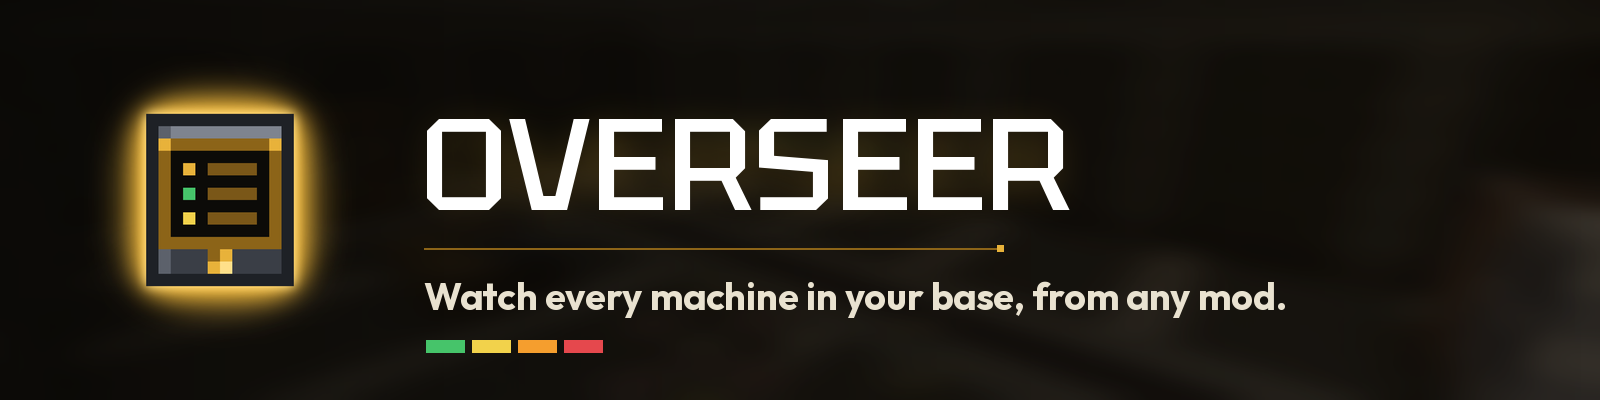
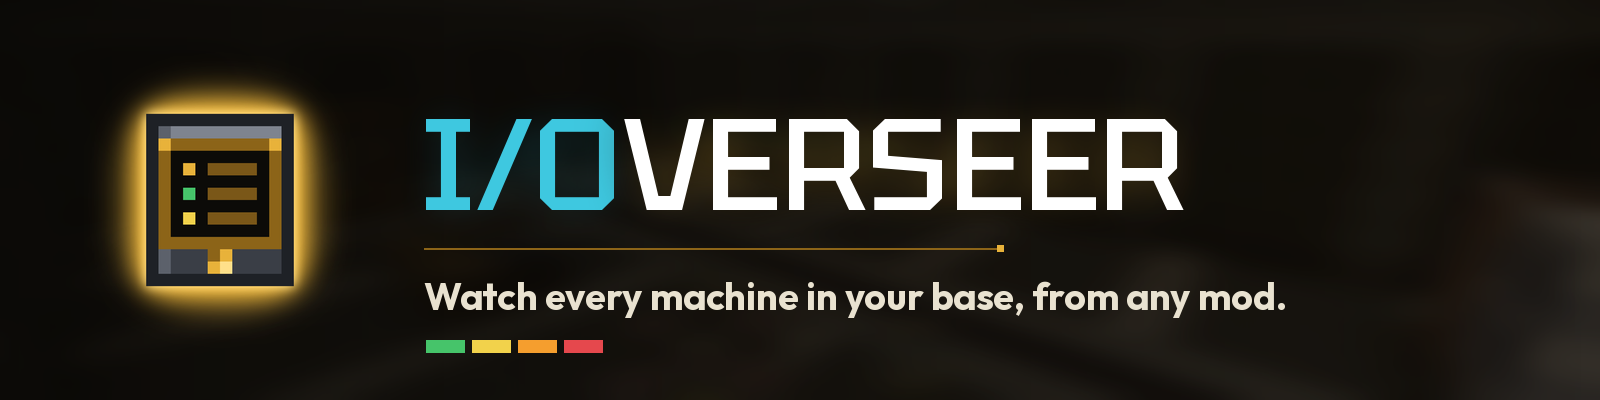
Rename to I/Overseer, I/O in cyan

Changed region(s): [[0.25, 0.3, 0.75, 0.54]]

diff --git a/tools/listing.py b/tools/listing.py
@@ -1,4 +1,4 @@
-"""Overseer CurseForge / README art: icon, banner and captioned gallery images.
+"""I/Overseer CurseForge / README art: icon, banner and captioned gallery images.
 python3 tools/listing.py <shots_dir> <out_dir>"""
 import os
 import sys
@@ -13,6 +13,7 @@ SMALL = lambda s: ImageFont.truetype(FD + 'Outfit-Regular.ttf', s)
 W, H = 1280, 720
 GOLD, GOLD_HI, GOLD_DIM = (232, 178, 58), (255, 216, 119), (140, 100, 24)
 STEEL, STEEL_DARK = (43, 46, 52), (27, 29, 33)
+IO = (62, 200, 224)
 STATUS = [(70, 196, 106), (242, 210, 75), (245, 158, 46), (229, 72, 77)]
 TABLET = os.path.join(os.path.dirname(__file__), '..', 'src/main/resources/assets/overseer/textures/item/monitor_tablet.png')
 
@@ -71,8 +72,19 @@ def trace(canvas, x0, x1, y):
     d.rectangle([x1 - 3, y - 3, x1 + 3, y + 3], fill=GOLD + (255,))
 
 
+def brand_text(canvas, xy, font, radius=16, strength=190):
+    """I/OVERSEER with the I/O in input/output cyan."""
+    x, y = xy
+    glow_text(canvas, (x, y), 'I/O', font, fill=IO, glow=IO, radius=radius, strength=strength)
+    w = ImageDraw.Draw(canvas).textlength('I/O', font=font)
+    glow_text(canvas, (x + w, y), 'VERSEER', font, glow=GOLD, radius=radius, strength=strength)
+
+
 def text_block(canvas, x, y, title, lines, tsize=64):
-    glow_text(canvas, (x, y), title, TITLE(tsize), glow=GOLD, radius=14, strength=160)
+    if title == 'I/OVERSEER':
+        brand_text(canvas, (x, y), TITLE(tsize), radius=14, strength=160)
+    else:
+        glow_text(canvas, (x, y), title, TITLE(tsize), glow=GOLD, radius=14, strength=160)
     y += tsize + 26
     trace(canvas, x, x + 300, y)
     y += 24
@@ -127,7 +139,7 @@ def banner(ic):
     c = bg(shot('m9.png').resize((BW, BH * 2)).crop((0, BH // 2, BW, BH + BH // 2)))
     c = c.resize((BW, BH))
     c.alpha_composite(ic.resize((300, 300), Image.LANCZOS), (70, 50))
-    glow_text(c, (420, 80), 'OVERSEER', TITLE(130), glow=GOLD, radius=22, strength=200)
+    brand_text(c, (420, 80), TITLE(130), radius=22, strength=200)
     trace(c, 424, 1000, 248)
     ImageDraw.Draw(c).text((424, 272), 'Watch every machine in your base, from any mod.', font=BODY(38), fill=(233, 226, 208, 255))
     chips(c, 426, 340)
@@ -137,18 +149,18 @@ def banner(ic):
 # ---------- gallery ----------
 def gallery():
     pages = [
-        ('01-overseer.png', 'hero.png', 'OVERSEER', ['Every machine in your base,', 'from any mod, at a glance.'], (0, 60, 1280, 720), 700),
+        ('01-overseer.png', 'hero.png', 'I/OVERSEER', ['Every machine in your base,', 'from any mod, at a glance.'], (0, 60, 1280, 720), 660),
         ('02-details.png', 'e1.png', 'Details', ['Working, idle, full or no power.', 'Energy, fluids, slots, position.', 'Pin machines to watch anywhere.'], (128, 38, 1152, 682), 640),
         ('03-find-it.png', 'e3.png', 'Find it', ['Ctrl-click a machine: gold outline', 'through walls, a beam and a HUD', 'arrow with the distance.'], (240, 0, 1120, 600), 680),
         ('04-live-preview.png', 'h2.png', 'Live preview', ['Hold the tablet to see the power', 'draw of nearby machines, stored', 'energy and the status mix.'], (760, 260, 1280, 720), 480),
         ('05-alerts.png', 'alert.png', 'Alerts', ['A toast when a pinned machine', 'runs out of power or fills up.'], (560, 0, 1280, 420), 680),
-        ('06-screen.png', 'scr.png', 'Overseer Screen', ['A wall monitor with a live', 'status list on its face.'], (330, 0, 900, 420), 600),
+        ('06-screen.png', 'scr.png', 'Wall Screen', ['A wall monitor with a live', 'status list on its face.'], (330, 0, 900, 420), 600),
         ('07-mod-resources.png', 'p6.png', 'Mod resources', ['Mekanism chemicals and', 'Ars Nouveau Source,', 'next to FE and fluids.'], (780, 90, 1150, 690), 360),
     ]
     for name, src, title, lines, crop, ww in pages:
         img = shot(src)
         c = bg(img)
-        y = text_block(c, 70, 200 if len(lines) < 3 else 180, title, lines, 72 if name.startswith('01') else 60)
+        y = text_block(c, 70, 200 if len(lines) < 3 else 180, title, lines, 64 if name.startswith('01') else 60)
         if name.startswith('01'):
             chips(c, 72, y + 16)
         win = window(img, ww, crop)

diff --git a/src/main/java/com/lach/overseer/client/Theme.java b/src/main/java/com/lach/overseer/client/Theme.java
@@ -15,6 +15,14 @@ public final class Theme {
     public static final int AMBER = 0xFFFFC24A;
     public static final int AMBER_DIM = 0xFFA77A26;
     public static final int TEXT = 0xFFE9E2D0;
+    /** The I/O in the I/Overseer name: input/output cyan. */
+    public static final int IO = 0xFF3EC8E0;
+
+    /** "I/OVERSEER" with the I/O picked out. */
+    public static net.minecraft.network.chat.Component brand() {
+        return net.minecraft.network.chat.Component.literal("I/O").withColor(IO & 0xFFFFFF)
+                .append(net.minecraft.network.chat.Component.literal("VERSEER").withColor(GOLD & 0xFFFFFF));
+    }
 
     private Theme() {}
 

diff --git a/src/main/java/com/lach/overseer/client/MonitorScreenRenderer.java b/src/main/java/com/lach/overseer/client/MonitorScreenRenderer.java
@@ -43,7 +43,8 @@ public class MonitorScreenRenderer implements BlockEntityRenderer<MonitorScreenB
         int x0 = -half, y = -half;
 
         List<MachineEntry> list = be.entries();
-        text(m, buf, "OVERSEER", x0, y, Theme.GOLD);
+        text(m, buf, "I/O", x0, y, Theme.IO);
+        text(m, buf, "VERSEER", x0 + font.width("I/O"), y, Theme.GOLD);
         Map<MachineStatus, Integer> counts = new EnumMap<>(MachineStatus.class);
         for (MachineEntry e : list) counts.merge(e.status(), 1, Integer::sum);
         String total = Integer.toString(list.size());

diff --git a/src/main/java/com/lach/overseer/client/OverseerScreen.java b/src/main/java/com/lach/overseer/client/OverseerScreen.java
@@ -44,7 +44,7 @@ public class OverseerScreen extends Screen {
     private record Row(String header, MachineEntry entry) {}
 
     public OverseerScreen(Optional<BlockPos> source) {
-        super(Component.translatable("overseer.gui.title"));
+        super(Theme.brand());
         this.source = source;
     }
 

diff --git a/README.md b/README.md
@@ -1,18 +1,18 @@
-# Overseer
+# I/Overseer
 
-![Overseer](docs/banner.png)
+![I/Overseer](docs/banner.png)
 
 Watch every machine in your base, from any mod. Made for kitchen-sink packs.
 
 NeoForge 1.21.1. No dependencies.
 
 ## What it does
-- **Overseer Tablet**: use it to list every machine within 32 blocks. Each one shows as **Working**, **Idle**, **Output full** or **No power**, grouped by mod.
+- **I/Overseer Tablet**: use it to list every machine within 32 blocks. Each one shows as **Working**, **Idle**, **Output full** or **No power**, grouped by mod.
 - **Click** a machine to see its details: energy, fluid, slots, position, plus Ars Nouveau Source and Mekanism chemicals when those mods are installed.
 - **Live preview**: while you hold the tablet its screen shows the power draw of nearby machines (FE/t with a 16-second graph), stored energy and the status mix. Toggle it with the Preview button in the tablet screen.
 - **Ctrl-click** a machine to highlight it in the world: a gold outline that shows through walls, a light beam, and a HUD arrow with the distance. It clears when you reach the machine or ctrl-click it again.
 - **Sneak-use** a machine with the tablet to pin it. Pinned machines show up from any distance and in any dimension. You get a toast when a pinned machine runs out of power or fills its output.
-- **Overseer Screen**: a wall monitor that shows a live status list on its face. Right-click it for the full view.
+- **I/Overseer Screen**: a wall monitor that shows a live status list on its face. Right-click it for the full view.
 
 ![Tablet list](docs/tablet.png)
 
@@ -22,15 +22,15 @@ NeoForge 1.21.1. No dependencies.
 | --- | --- |
 | ![Highlight through walls](docs/highlight.png) | ![Live preview on the held tablet](docs/live-preview.png) |
 
-| Pin alert | Overseer Screen |
+| Pin alert | I/Overseer Screen |
 | --- | --- |
-| ![Alert toast](docs/alert.png) | ![Overseer Screen](docs/screen.png) |
+| ![Alert toast](docs/alert.png) | ![I/Overseer Screen](docs/screen.png) |
 
 ![Mekanism chemicals in the details panel](docs/mod-resources.png)
 
 ## Recipes
-- **Overseer Tablet**: iron / glass pane / iron, redstone / comparator / redstone, iron / gold ingot / iron.
-- **Overseer Screen**: 3 iron on top, glass pane / Overseer Tablet / glass pane, gold ingot / redstone block / gold ingot.
+- **I/Overseer Tablet**: iron / glass pane / iron, redstone / comparator / redstone, iron / gold ingot / iron.
+- **I/Overseer Screen**: 3 iron on top, glass pane / I/Overseer Tablet / glass pane, gold ingot / redstone block / gold ingot.
 
 ## How it reads machines
 It works from the standard NeoForge energy, item and fluid capabilities, so it needs no per-mod code:

diff --git a/CHANGELOG.md b/CHANGELOG.md
@@ -1,5 +1,8 @@
 # Changelog
 
+## 0.2.1
+- Renamed to I/Overseer (another mod already uses the name Overseer). The I/O in the name is shown in cyan for Input/Output.
+
 ## 0.2.0
 - Live preview on the held tablet: power draw (FE/t) with a scrolling graph, stored energy bar and status mix. Toggle with the new Preview button in the tablet screen (saved on the tablet).
 - Details panel shows Ars Nouveau Source and Mekanism chemical tanks (gases, infuse types, pigments, slurries).
